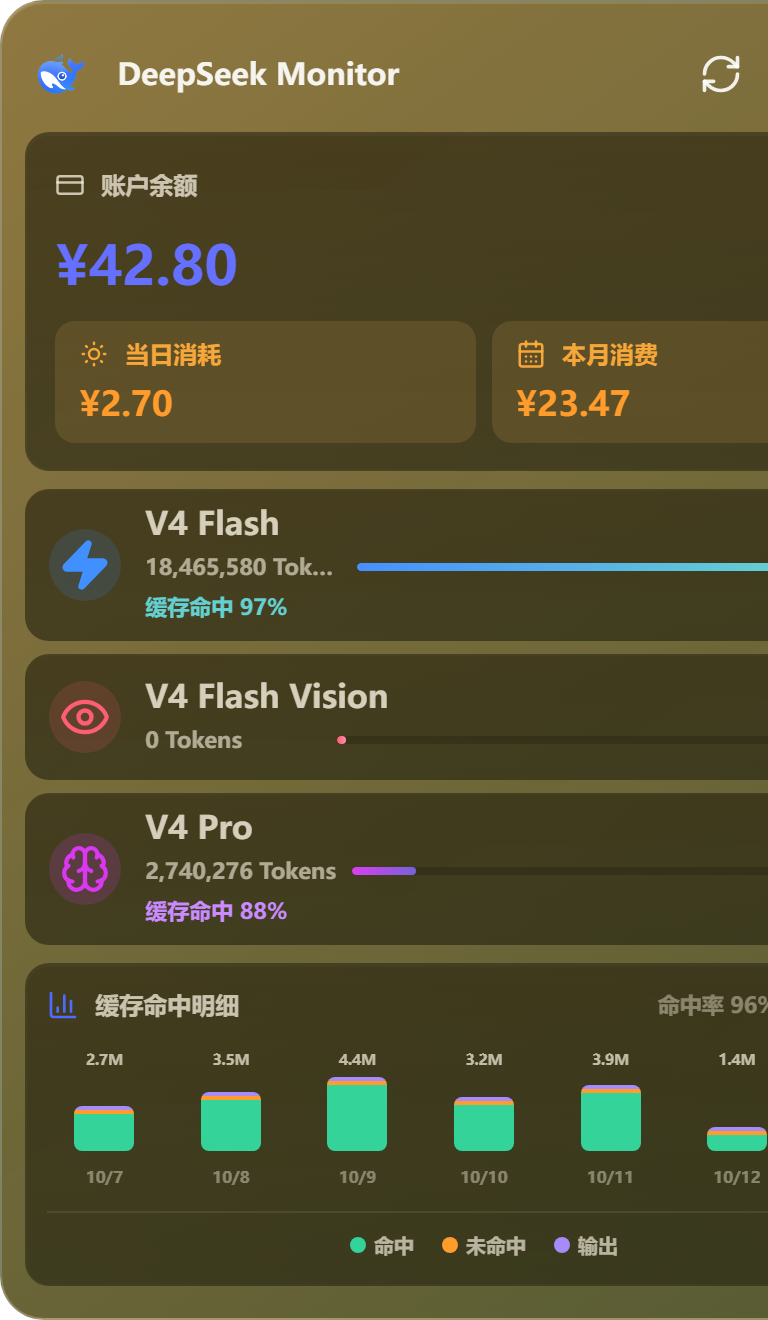
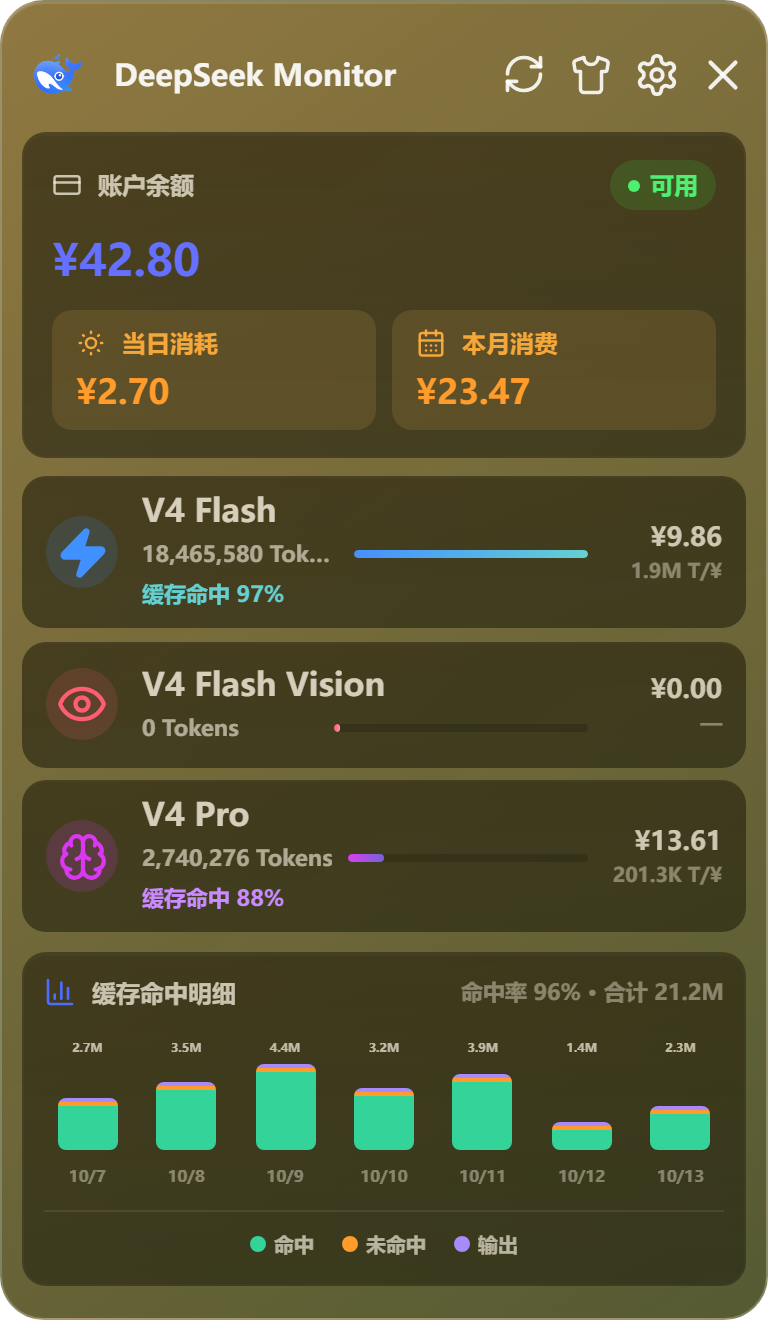
docs+fix: v1.2.0 截图与浏览器预览说明，最小窗口滚动兜底
- docs: README 改用 v1.2.0 实机截图（384x660 / 600x900 / 340x540），删除过期的 v1.1.0 UI 截图与未引用的 new-ui.png
- docs: 补充「无 Rust 环境预览界面」说明（src/dev-mock.ts）
- fix(css): 仪表盘与主面板在窗口过矮时允许纵向滚动，避免图表底部被裁掉
- fix(ci): 凭据检查步骤显式 exit 0，避免 git grep 无匹配的退出码 1 误判失败

diff --git a/src/styles.css b/src/styles.css
@@ -63,7 +63,20 @@ button {
   height: 100%;
   border-radius: 22px;
   padding: 0 clamp(10px, 2.4vw, 18px) clamp(10px, 2.4vh, 18px);
-  overflow: hidden;
+  /* 窗口拉到最小尺寸时内容可能装不下，保留垂直滚动兜底。 */
+  overflow-x: hidden;
+  overflow-y: auto;
+  scrollbar-width: thin;
+  scrollbar-color: rgba(var(--fg), 0.3) transparent;
+}
+
+.panel::-webkit-scrollbar {
+  width: 5px;
+}
+
+.panel::-webkit-scrollbar-thumb {
+  border-radius: 999px;
+  background: rgba(var(--fg), 0.3);
 }
 
 .dashboard-panel {
@@ -71,7 +84,9 @@ button {
   flex-direction: column;
   gap: clamp(6px, 1.4vh, 10px);
   min-height: 0;
-  overflow: hidden;
+  /* 窗口高度不足时允许纵向滚动，避免图表底部被直接裁掉。 */
+  overflow-x: hidden;
+  overflow-y: auto;
 }
 
 .panel-header {

diff --git a/README.md b/README.md
@@ -20,15 +20,21 @@ DeepSeek Monitor Windows is a Windows desktop adaptation inspired by JayHome137/
 
 ## 页面截图
 
-> 截图为 v1.1.0 界面。v1.2.0 在仪表盘新增了 V4 Flash Vision 模型行，其余布局一致。
+v1.2.0 主面板，默认窗口 384×660，仪表盘新增 V4 Flash Vision 行：
 
-### 旧版本 UI
+![v1.2.0 主面板](screenshots/v1.2.0/dashboard-384x660.png)
+
+窗口可自由拉伸，拉高后图表完整展开（600×900）：
+
+![v1.2.0 拉高窗口](screenshots/v1.2.0/dashboard-tall-600x900.png)
+
+最小窗口 340×540 仍保持完整布局，内容超出时可纵向滚动：
+
+![v1.2.0 最小窗口](screenshots/v1.2.0/dashboard-min-340x540.png)
+
+历史界面（v1.1.0）：
 
 ![DeepSeek Monitor Windows 页面总览](screenshots/overview.png)
-
-### 新版本 UI
-
-![DeepSeek Monitor Windows 新版本 UI](screenshots/new-ui.png)
 
 ## 上游项目与致谢
 
@@ -117,8 +123,11 @@ Tauri 打包目标当前配置为 NSIS 安装包，产物位于 `src-tauri/targe
 
 如果出现 `Visual Studio Build Tools not found`，请安装 Visual Studio Build Tools 2022，并确认已勾选 `Desktop development with C++` 组件。
 
-### 持续集成与发版
+### 无 Rust 环境预览界面
 
+只改界面的贡献者不需要安装 Rust 和 Visual Studio Build Tools：`npm run dev` 在普通浏览器里检测不到 Tauri IPC 时，会自动加载 `src/dev-mock.ts` 的演示数据，可直接看到仪表盘、设置页和详情页。生产构建会通过 `import.meta.env.DEV` 把这段代码整体剔除，不会进入 `dist` 产物。
+
+### 持续集成与发版
 仓库自带 GitHub Actions 工作流，本地不装 Rust 也能完成校验与发版：
 
 - `.github/workflows/ci.yml`：每次推送和 PR 会执行前端 `tsc --noEmit` + `vite build`、Windows 上的 `cargo check --all-targets` 与 `cargo test`，并检查是否有凭据被误提交。

diff --git a/README_EN.md b/README_EN.md
@@ -16,15 +16,21 @@ Important: This project is not an official DeepSeek product.
 
 ## Screenshots
 
-> The screenshots show the v1.1.0 interface. v1.2.0 adds a V4 Flash Vision row to the dashboard; the rest of the layout is unchanged.
+The v1.2.0 dashboard at the default 384×660 window size, with the new V4 Flash Vision row:
 
-### Previous UI
+![v1.2.0 dashboard](screenshots/v1.2.0/dashboard-384x660.png)
+
+The window is freely resizable; a taller window expands the chart (600×900):
+
+![v1.2.0 taller window](screenshots/v1.2.0/dashboard-tall-600x900.png)
+
+The minimum window size 340×540 keeps the layout intact and scrolls vertically when needed:
+
+![v1.2.0 minimum window](screenshots/v1.2.0/dashboard-min-340x540.png)
+
+Previous interface (v1.1.0):
 
 ![DeepSeek Monitor Windows overview](screenshots/overview.png)
-
-### Current UI
-
-![DeepSeek Monitor Windows current UI](screenshots/new-ui.png)
 
 ## Upstream Projects and Credits
 
@@ -112,6 +118,10 @@ npx tauri build
 The current Tauri bundle target is an NSIS installer. Build artifacts are generated in `src-tauri/target/release/bundle/nsis/`.
 
 If you see `Visual Studio Build Tools not found`, install Visual Studio Build Tools 2022 and verify that the Desktop development with C++ workload is selected.
+
+### Browser Preview Without Rust
+
+Contributors who only touch the UI do not need Rust or Visual Studio Build Tools: when `npm run dev` cannot detect Tauri IPC in a plain browser, it loads demo data from `src/dev-mock.ts` so the dashboard, settings, and detail views render immediately. Production builds drop that code entirely through `import.meta.env.DEV`, so it never reaches `dist`.
 
 ### Continuous Integration and Releases
 
